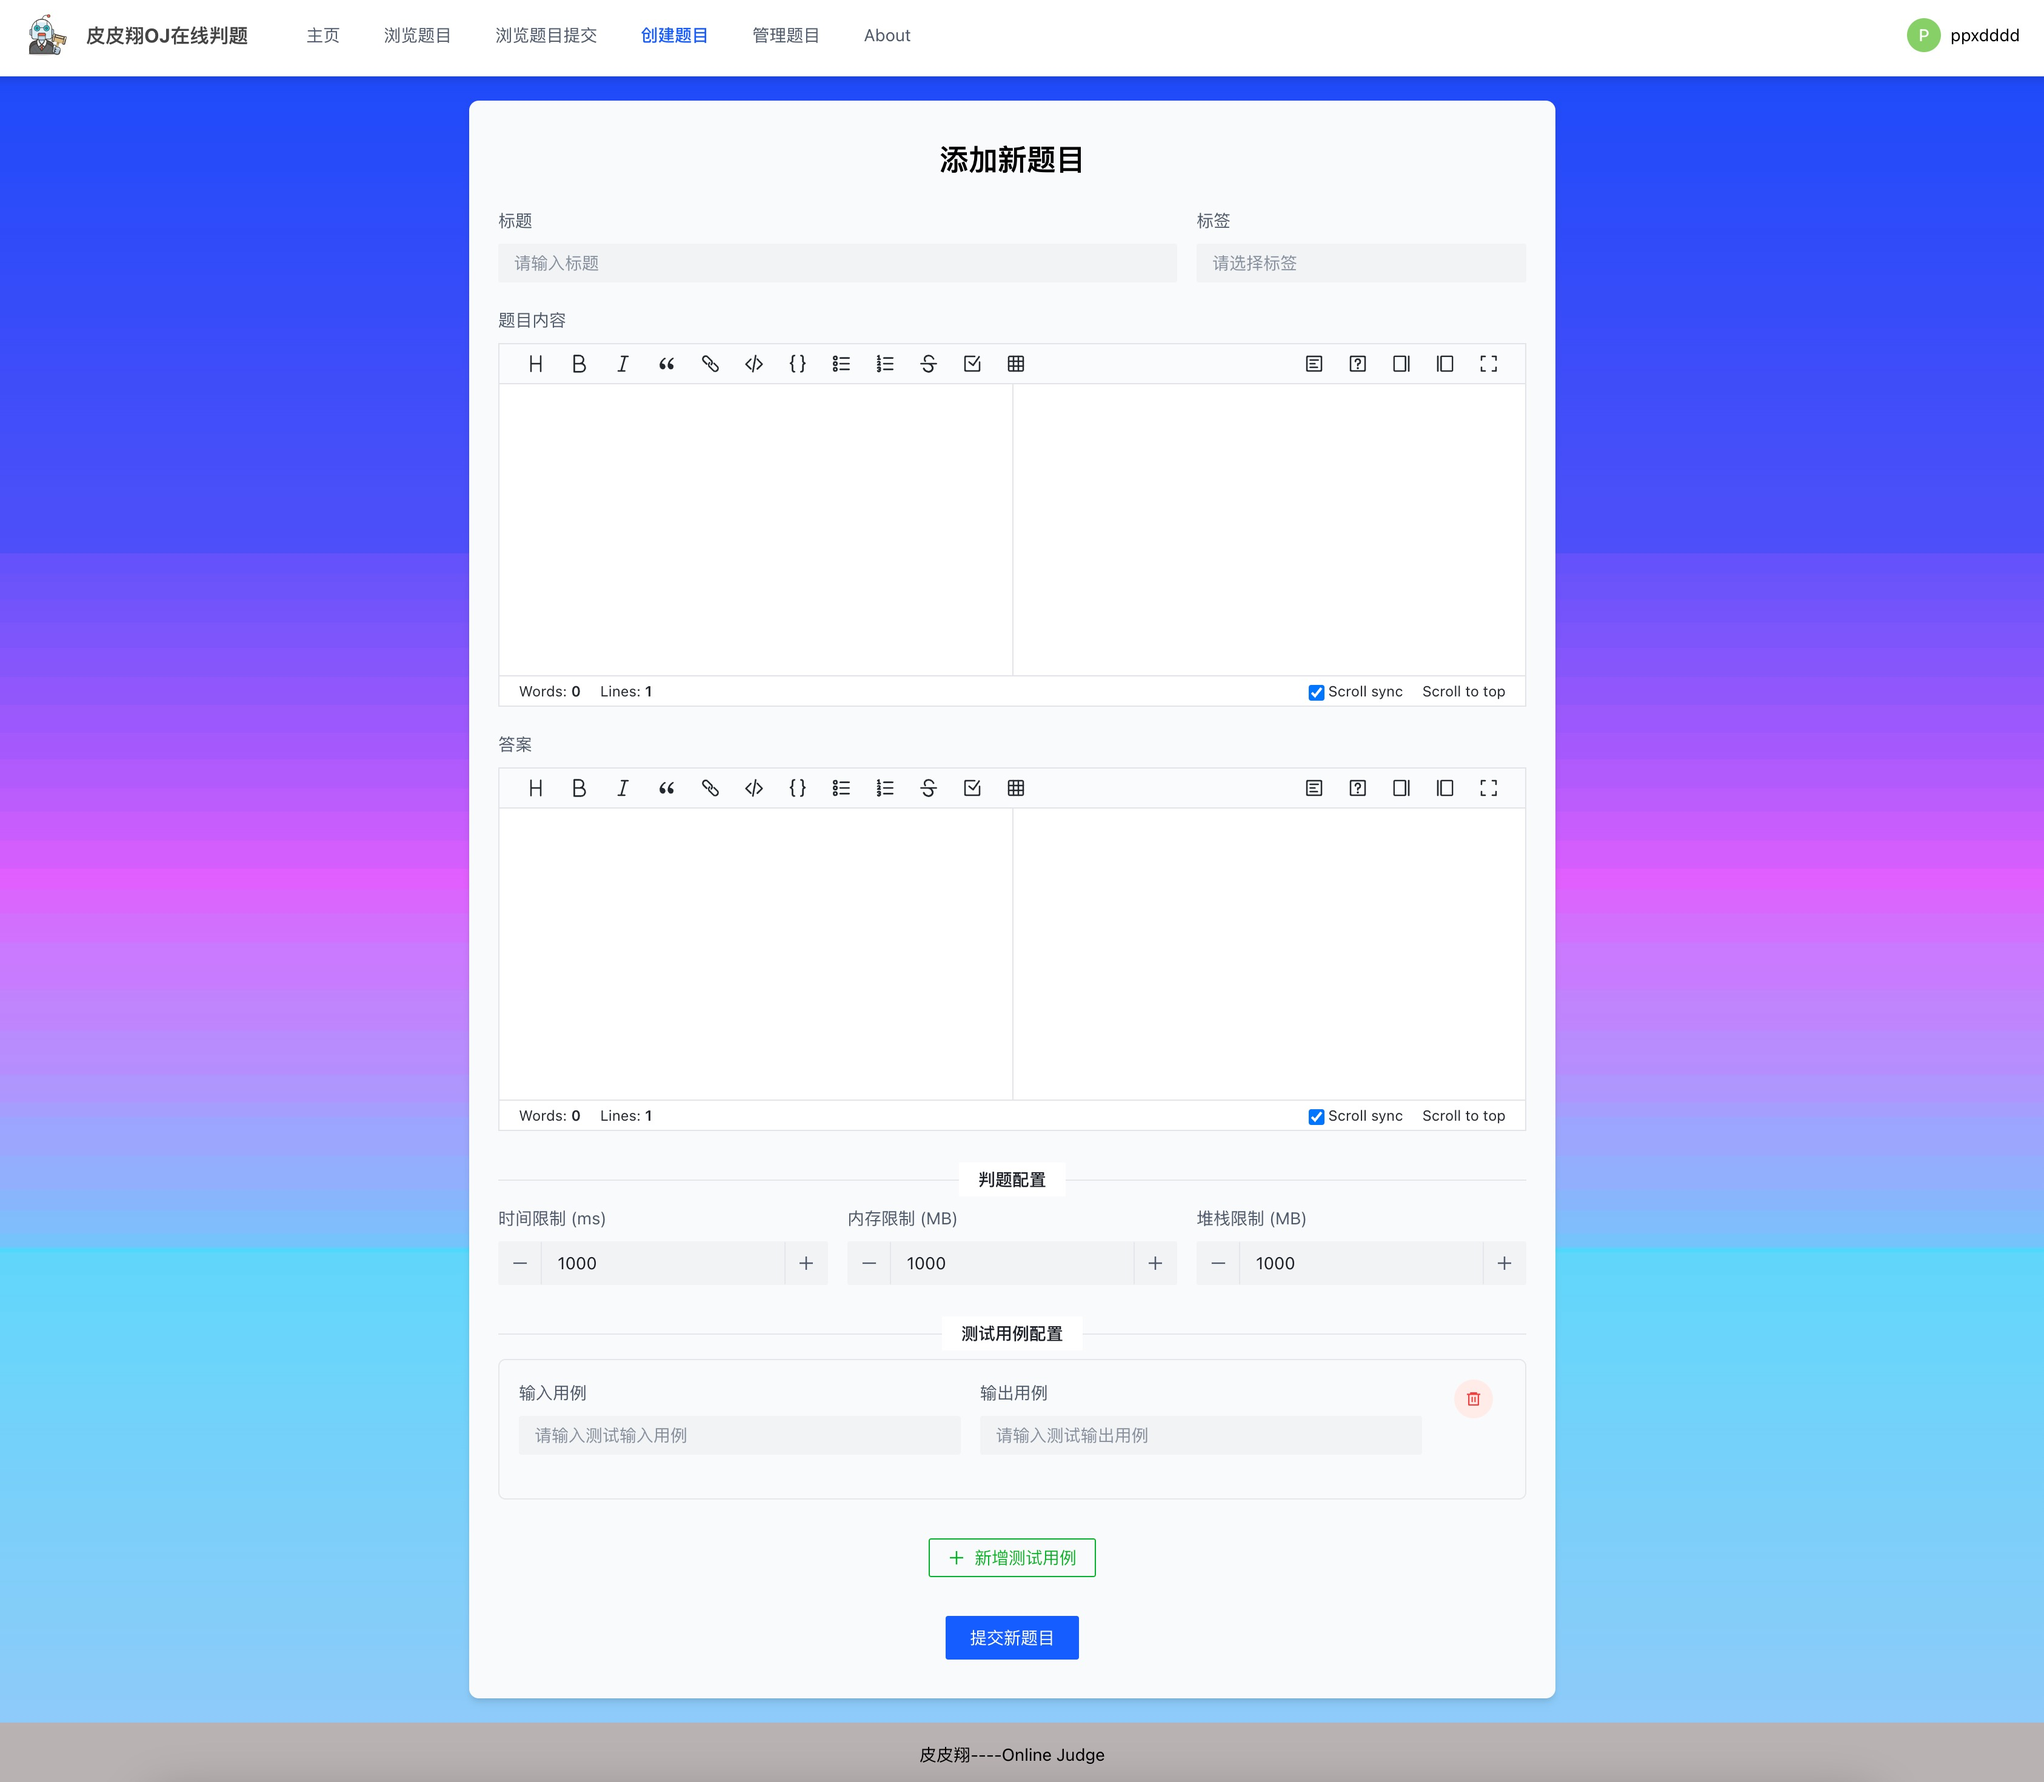
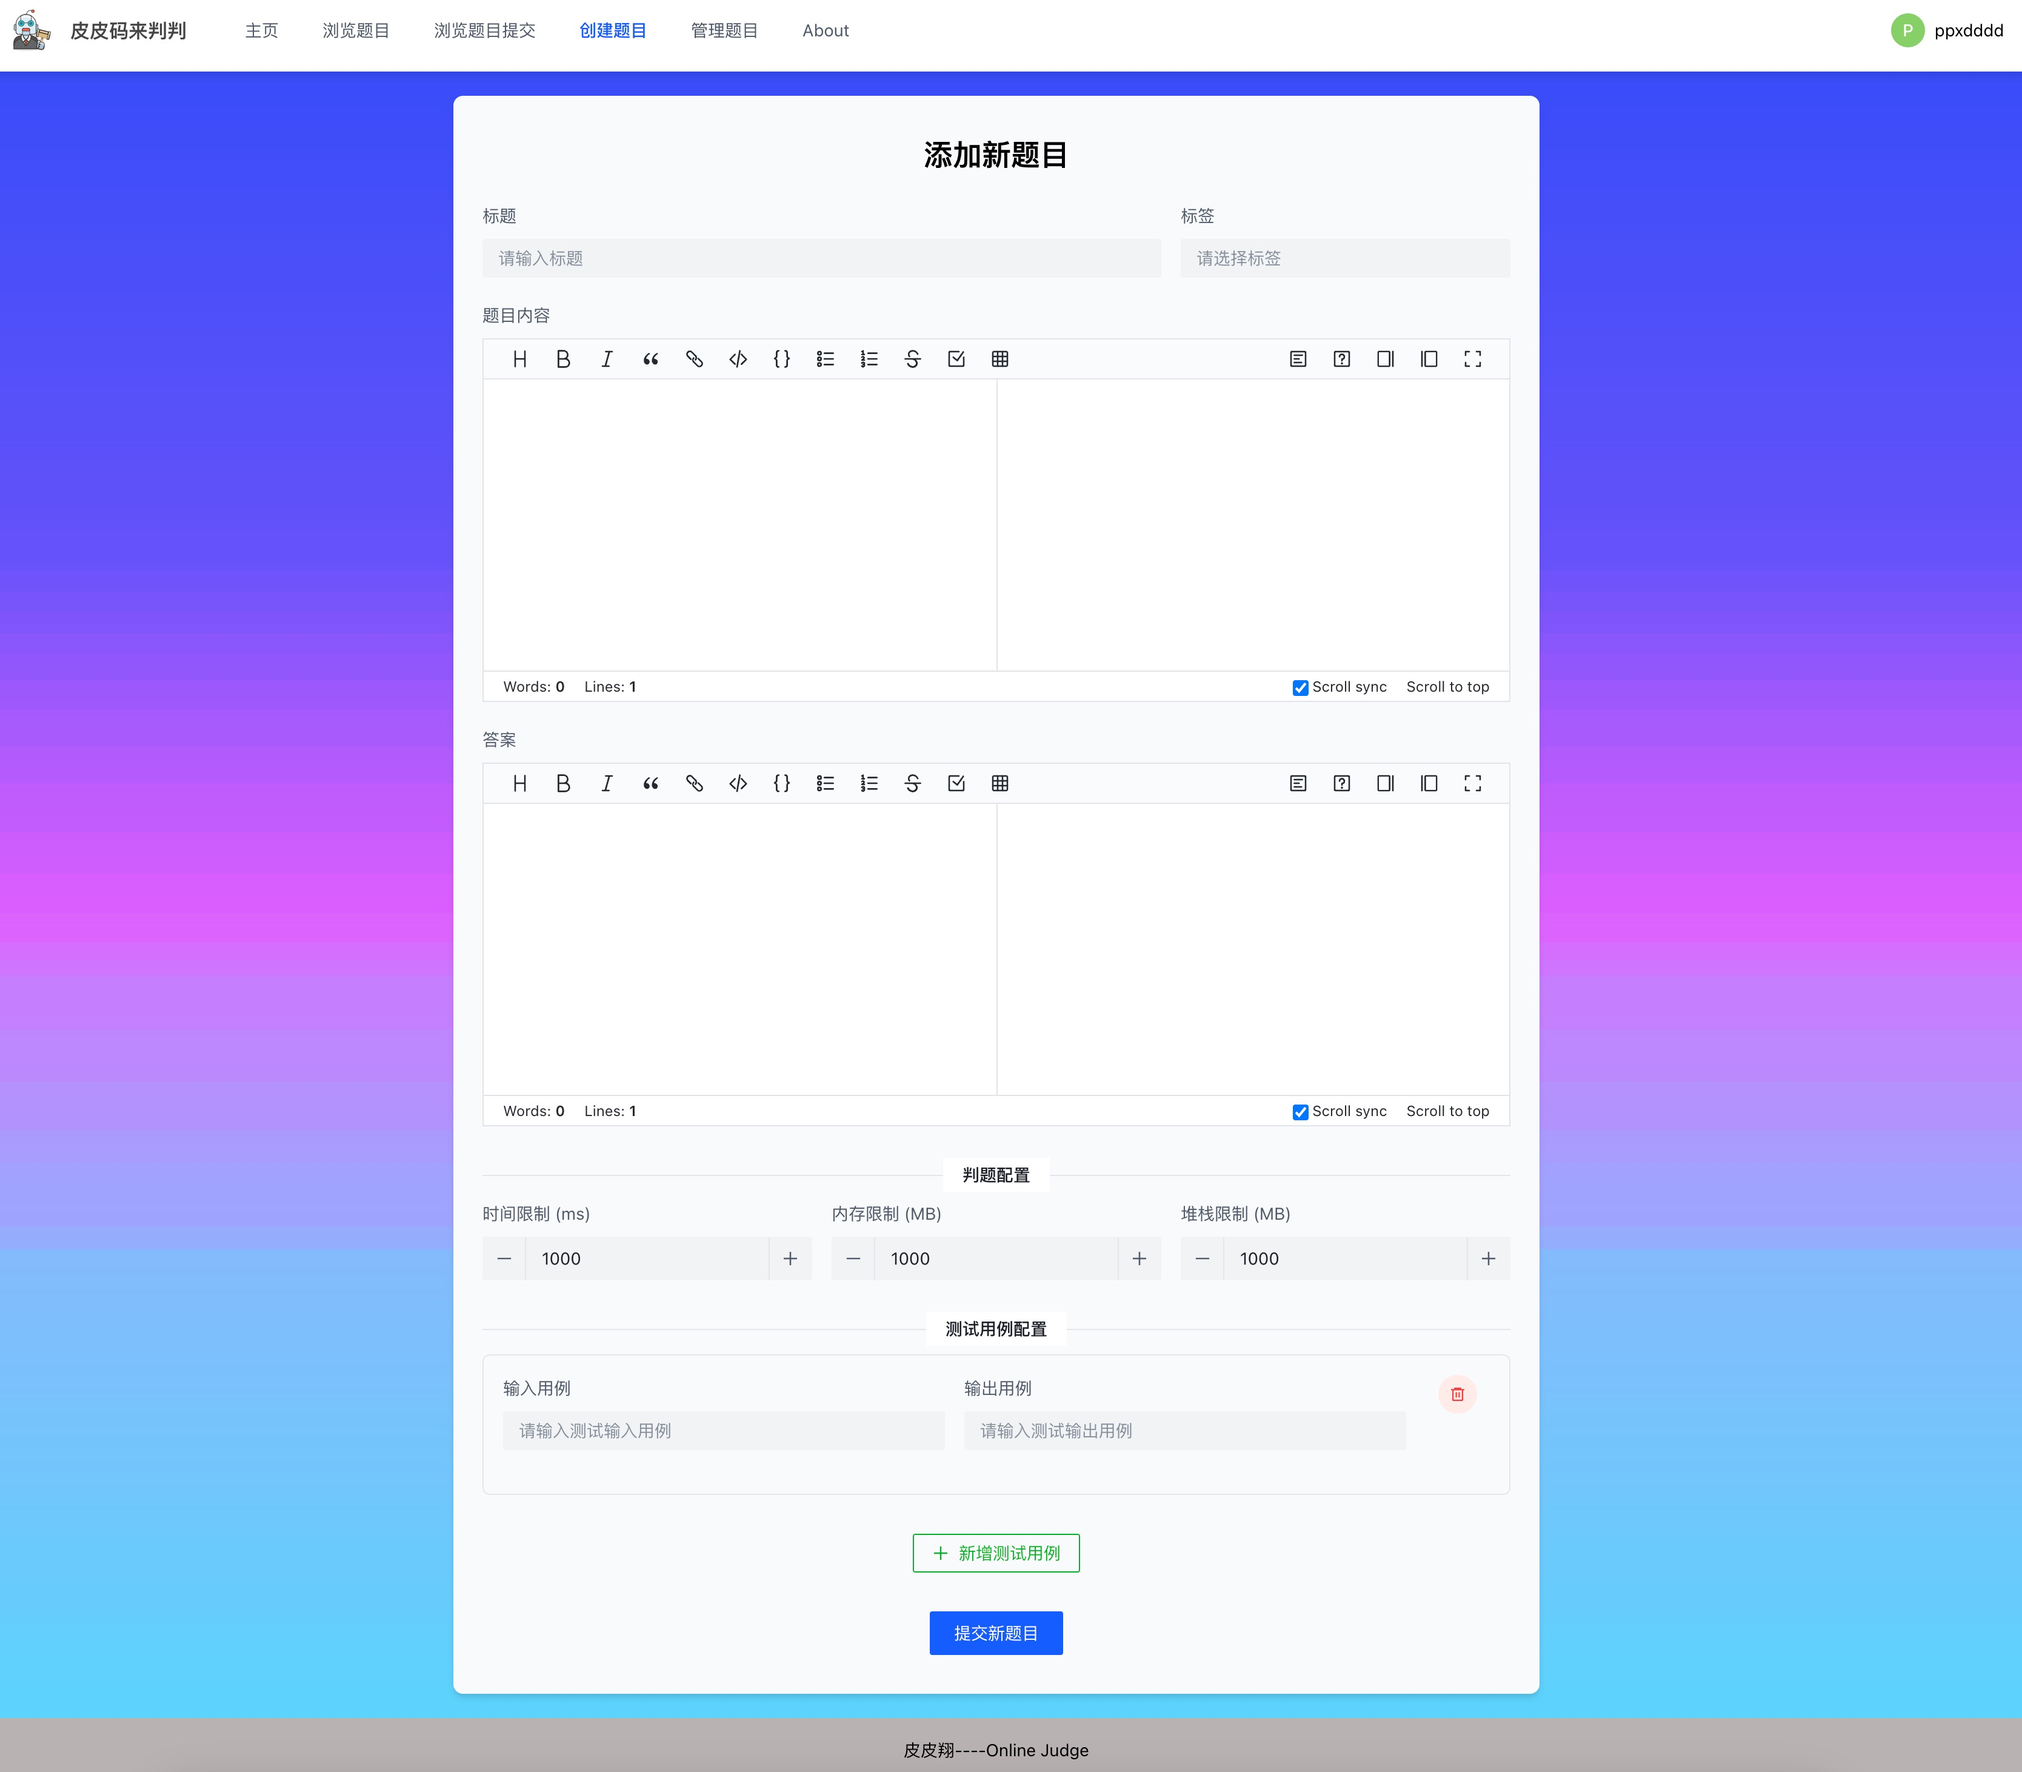
screenshot images updated

diff --git a/src/views/AboutView.vue b/src/views/AboutView.vue
@@ -30,13 +30,13 @@ export default {
   name: "ExtendedAboutPage",
   data() {
     return {
-      tag: "皮皮翔OJ在线判题",
+      tag: "皮皮码来判判",
       title: "Write, Submit, Succeed!",
       description:
         "基于Vue 3 + Spring Boot + 微服务+ Docker的编程题目在线评测系统",
       additionalTitle: "More About My Project",
       additionalContent:
-        "An online programming problem evaluation system (abbreviated as OJ) based on Vue 3 + Spring Boot + Spring Cloud microservices + Docker.\n" +
+        "An online programming problem judge system (abbreviated as OJ) based on Vue 3 + Spring Boot + Spring Cloud microservices + Docker.\n" +
         "\n" +
         "On the system frontend, administrators can create and manage problems; users can freely search for problems, read them, write, and submit code.\n" +
         "\n" +

diff --git a/src/components/GlobalHeader.vue b/src/components/GlobalHeader.vue
@@ -18,7 +18,7 @@
               style="cursor: pointer"
             >
               <img class="logo" src="../assets/Robot-judge.svg" />
-              <div class="title">皮皮翔OJ在线判题</div>
+              <div class="title">皮皮码来判判</div>
             </div>
           </a-menu-item>
           <a-menu-item
